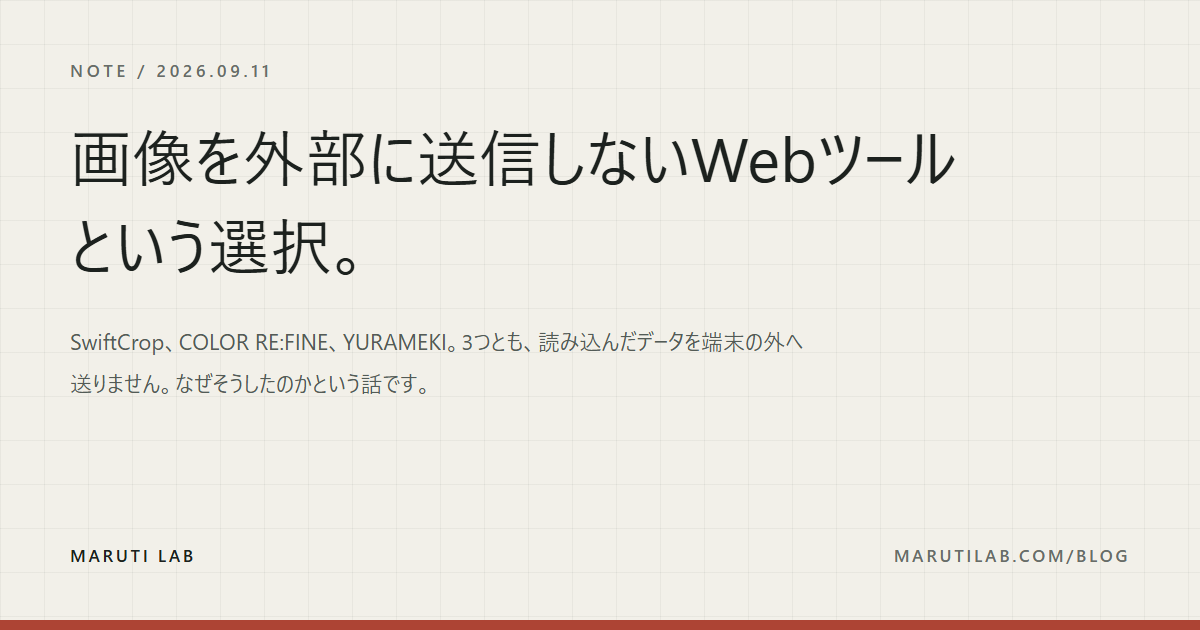
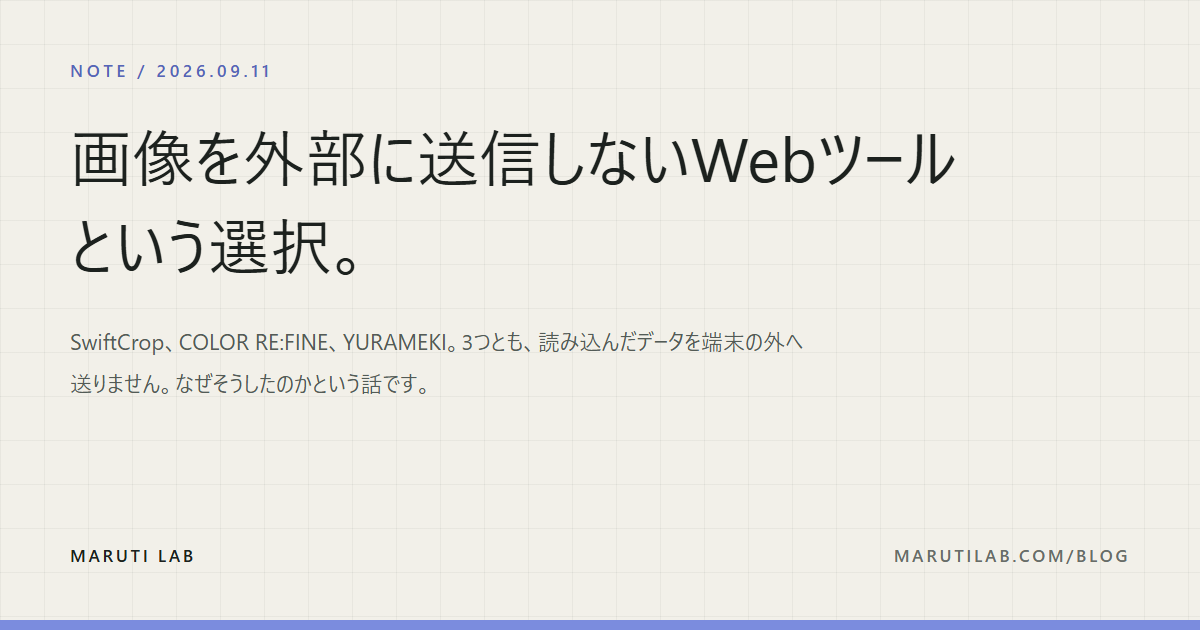
Put the notes back on the grid and give them MarutiBit's blue
Taking the ruled ground away fixed the text but flattened the page. The grid
is back where it belongs - behind everything - and the article now sits on a
sheet of plain paper laid over it, so the 44px lines frame the writing
instead of running through it.

Periwinkle, SEQUENCE's colour, becomes the notes' own accent: the sheet's top
edge, the date, the tag chips, a short rule before each heading, and the
links. The share card takes the same blue along its foot, so a note looks
like a note wherever it turns up.

Changed region(s): [[0.0, 0.9651, 1.0, 1.0], [0.0617, 0.0905, 0.2158, 0.1206]]

diff --git a/app/globals.css b/app/globals.css
@@ -141,29 +141,34 @@ footer{padding-top:34px;padding-bottom:34px}
 .contactSent{max-width:520px;padding:28px 0 0;margin-top:6px;font-size:14px;line-height:2;color:var(--ink);border-top:1px solid var(--line)}
 @media(max-width:640px){.legalHeader{height:70px}.legalDocument h1{margin-bottom:44px}.footerLinks{gap:14px}}
 
-/* Notes. The legal pages sit on a 44px ruled grid, which is fine behind a
-   short document and noisy behind a long one - the lines cut through every
-   line of body text. Reading pages get plain paper. */
-.notePage{background-image:none}
+/* Notes. The grid stays on the page - it is the site's ground - but the
+   article is lifted off it onto a sheet of plain paper, so the 44px lines
+   never run through a line of body text. Periwinkle is MarutiBit's blue and
+   marks everything structural here: the date, the tags, the rule before each
+   heading, the links. */
+.notePage{--note-accent:#7B8CDE}
+.notePage .eyebrow{color:var(--note-accent)}
+.noteSheet{width:min(860px,calc(100% - 40px));margin:clamp(46px,6vw,84px) auto;background:var(--paper);border:1px solid var(--line);border-top:4px solid var(--note-accent);box-shadow:0 22px 50px rgba(41,39,32,.07);padding:0 clamp(26px,5vw,64px)}
+.noteSheet .blogIndex,.noteSheet .postDocument,.noteSheet .postFooter{width:auto;margin:0}
 /* Latest notes on the front page. The header and footer links were the only
    way in, so anyone reading down the page never learned the notes existed. */
 .notesSection{padding:clamp(90px,12vw,170px) clamp(24px,5vw,76px);border-top:1px solid var(--line)}
 .notesList{list-style:none;margin:0;padding:0;display:grid;grid-template-columns:1fr 1fr;gap:0 clamp(30px,5vw,70px)}
-.notesList li{border-top:1px solid var(--line)}
+.notesList li{border-top:2px solid #7B8CDE}
 .notesList a{display:block;padding:30px 0 34px}
-.notesList time{font:500 10px/1 "Yu Gothic UI",sans-serif;letter-spacing:.2em;color:var(--muted)}
+.notesList time{font:500 10px/1 "Yu Gothic UI",sans-serif;letter-spacing:.2em;color:#7B8CDE}
 .notesList h3{font-size:clamp(19px,1.9vw,23px);font-weight:500;line-height:1.65;margin:14px 0 0}
-.notesList a:hover h3{color:var(--verm)}
+.notesList a:hover h3{color:#4f61b4}
 .notesList p{font-size:13px;line-height:2;color:var(--muted);margin:12px 0 0}
 .notesMore{display:inline-block;margin-top:18px;font:500 10px/1 "Yu Gothic UI",sans-serif;letter-spacing:.12em;border-bottom:1px solid var(--line);padding-bottom:6px}
-.notesList a:hover .notesMore{border-color:var(--verm);color:var(--verm)}
+.notesList a:hover .notesMore{border-color:#4f61b4;color:#4f61b4}
 .notesAll{display:inline-block;margin-top:52px}
 @media(max-width:900px){.notesList{grid-template-columns:1fr}}
 
 /* Set for reading at length: a wider measure, larger body type and real
    space between blocks. */
 .blogIndex,.postDocument,.postFooter{width:min(760px,calc(100% - 48px));margin:0 auto}
-.blogIndex{padding:clamp(70px,9vw,120px) 0}
+.blogIndex{padding:clamp(56px,7vw,88px) 0 clamp(40px,5vw,64px)}
 .blogIndex h1{font-size:clamp(38px,6vw,68px);font-weight:400;margin:0 0 34px}
 .blogLead{font-size:14px;line-height:2.1;color:var(--muted);margin:0 0 22px;max-width:34em}
 .blogEmpty{font-size:13px;line-height:2;color:var(--muted);border-top:1px solid var(--line);padding-top:34px}
@@ -171,23 +176,24 @@ footer{padding-top:34px;padding-bottom:34px}
 .postList li{border-top:1px solid var(--line)}
 .postList li:last-child{border-bottom:1px solid var(--line)}
 .postList a{display:block;padding:34px 0}
-.postList time{font:500 10px/1 "Yu Gothic UI",sans-serif;letter-spacing:.2em;color:var(--muted)}
+.postList time{font:500 10px/1 "Yu Gothic UI",sans-serif;letter-spacing:.2em;color:var(--note-accent)}
 .postList h2{font-size:clamp(20px,2.4vw,26px);font-weight:500;line-height:1.6;margin:14px 0 0}
-.postList a:hover h2{color:var(--verm)}
+.postList a:hover h2{color:#4f61b4}
 .postList p{font-size:13px;line-height:2;color:var(--muted);margin:12px 0 0;max-width:38em}
 .postMeta{display:flex;align-items:center;gap:10px;margin-top:16px;font:500 10px/1 "Yu Gothic UI",sans-serif;letter-spacing:.12em;color:var(--muted)}
-.postMeta b{font-weight:500;border:1px solid var(--line);border-radius:999px;padding:5px 10px}
+.postMeta b{font-weight:500;border:1px solid var(--note-accent);border-radius:999px;padding:5px 10px;color:#5566b8}
 .postMeta i{font-style:normal;margin-left:auto}
-.postDocument{padding:clamp(70px,9vw,110px) 0 40px}
+.postDocument{padding:clamp(56px,7vw,88px) 0 40px}
 .postDocument h1{font-size:clamp(30px,4.4vw,50px);font-weight:400;line-height:1.5;margin:0 0 26px}
 .postMetaHead{margin:0 0 46px;padding-bottom:34px;border-bottom:1px solid var(--line)}
 .postMetaHead i{margin-left:0}
 .postBody{font-size:15px;line-height:2.15;color:#333937}
-.postBody h2{font-size:20px;font-weight:500;line-height:1.7;margin:64px 0 20px;padding-top:26px;border-top:1px solid var(--line);color:var(--ink)}
+.postBody h2{position:relative;font-size:20px;font-weight:500;line-height:1.7;margin:64px 0 20px;padding-top:30px;border-top:1px solid var(--line);color:var(--ink)}
+.postBody h2:before{content:"";position:absolute;top:-2px;left:0;width:46px;height:3px;background:var(--note-accent)}
 .postBody h3{font-size:16px;font-weight:600;line-height:1.7;margin:42px 0 14px;color:var(--ink)}
 .postBody p{margin:0 0 26px}
-.postBody a{color:var(--verm);border-bottom:1px solid rgba(173,68,52,.35)}
-.postBody a:hover{border-color:var(--verm)}
+.postBody a{color:#4f61b4;border-bottom:1px solid rgba(123,140,222,.5)}
+.postBody a:hover{border-color:#4f61b4}
 .postBody strong{font-weight:600;color:var(--ink)}
 /* Tailwind's preflight strips list markers, so put them back here. */
 .postBody ul,.postBody ol{margin:0 0 26px;padding-left:1.5em}
@@ -204,12 +210,12 @@ footer{padding-top:34px;padding-bottom:34px}
 .postBody hr{margin:52px 0;border:0;border-top:1px solid var(--line)}
 .postBody table{width:100%;border-collapse:collapse;margin:0 0 30px;font-size:13px}
 .postBody th,.postBody td{border-bottom:1px solid var(--line);padding:12px 10px;text-align:left}
-.postFooter{padding:0 0 clamp(70px,9vw,110px)}
+.postFooter{padding:0 0 clamp(50px,6vw,74px)}
 .postFooter ul{list-style:none;margin:0;padding:0;border-top:1px solid var(--line)}
 .postFooter li{border-bottom:1px solid var(--line)}
 .postFooter a{display:flex;align-items:baseline;gap:20px;padding:22px 0;font-size:14px}
-.postFooter a:hover{color:var(--verm)}
-.postFooter time{flex:0 0 auto;font:500 10px/1 "Yu Gothic UI",sans-serif;letter-spacing:.16em;color:var(--muted)}
+.postFooter a:hover{color:#4f61b4}
+.postFooter time{flex:0 0 auto;font:500 10px/1 "Yu Gothic UI",sans-serif;letter-spacing:.16em;color:var(--note-accent)}
 @media(max-width:640px){.postBody{font-size:14.5px;line-height:2.05}.postBody h2{margin-top:48px}.postFooter a{flex-direction:column;gap:8px}}
 
 /* CLOCK download hero: preserve the complete 16:9 CLOCK MODE capture. */

diff --git a/app/blog/[slug]/page.tsx b/app/blog/[slug]/page.tsx
@@ -59,6 +59,7 @@ export default async function BlogPost({ params }: Props) {
         <a href="/">Maruti Lab</a>
         <a href="/blog">ノート一覧</a>
       </header>
+      <div className="noteSheet">
       <article className="postDocument">
         <p className="eyebrow">
           NOTE / <time dateTime={post.date}>{formatDate(post.date)}</time>
@@ -89,6 +90,7 @@ export default async function BlogPost({ params }: Props) {
           </ul>
         </nav>
       )}
+      </div>
       <footer>
         <div className="footerBrand">Maruti Lab</div>
         <div className="footerLinks"><a href="/">Works</a><a href="/bit">MarutiBit</a><a href="/4track">4TRACK</a><a href="/blog">ノート</a><a href="https://x.com/maruti_lab" target="_blank" rel="noreferrer">X / @maruti_lab</a><a href="https://buymeacoffee.com/marutilab" target="_blank" rel="noreferrer">Coffee</a><a href="/contact">Contact</a><a href="/privacy">Privacy</a><a href="/terms">Terms</a><a href="/disclaimer">Disclaimer</a></div>

diff --git a/app/blog/page.tsx b/app/blog/page.tsx
@@ -16,6 +16,7 @@ export default function BlogIndex() {
         <a href="/">Maruti Lab</a>
         <a href="/">トップへ戻る</a>
       </header>
+      <div className="noteSheet blogIndexSheet">
       <div className="blogIndex">
         <p className="eyebrow">NOTES / MARUTI LAB</p>
         <h1>ノート</h1>
@@ -43,6 +44,7 @@ export default function BlogIndex() {
             ))}
           </ol>
         )}
+      </div>
       </div>
       <footer>
         <div className="footerBrand">Maruti Lab</div>

diff --git a/app/og-preview/ogPreview.module.css b/app/og-preview/ogPreview.module.css
@@ -176,13 +176,13 @@
   color: #1c211e;
   display: flex;
   flex-direction: column;
-  border-bottom: 10px solid #ad4434;
+  border-bottom: 10px solid #7B8CDE;
 }
 .note .noteEyebrow {
   margin: 0;
   font: 500 17px/1 "Yu Gothic UI", sans-serif;
   letter-spacing: 0.22em;
-  color: #686d68;
+  color: #5566b8;
 }
 .note h1 {
   margin: 34px 0 0;
